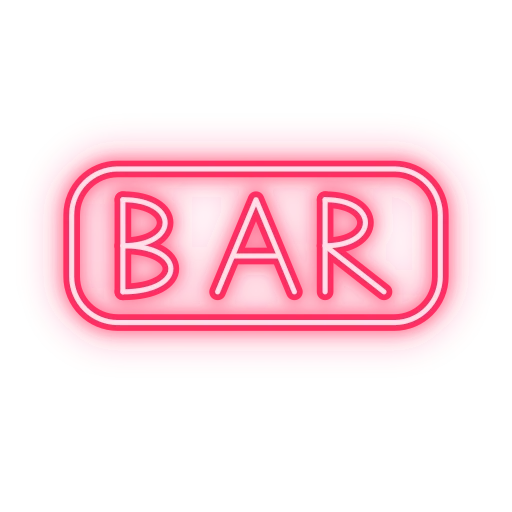
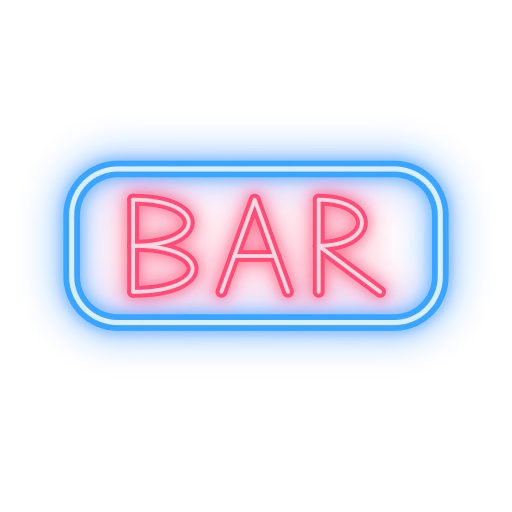
minor: improved some symbols

Changed region(s): [[0.0625, 0.25, 0.9375, 0.6875]]

diff --git a/src/components/SlotMachine.vue b/src/components/SlotMachine.vue
@@ -54,5 +54,11 @@ const spin = () => {
         >
             {{ (slotMachine?.score.score ?? 0).toString().padStart(4, "0") }}
         </span>
+        <span
+            v-if="(slotMachine?.lastWin ?? 0) > 0"
+            class="monoton-regular reel-icon flex h-full items-center justify-center border-2 border-blue-400 bg-transparent px-4 py-3 text-8xl font-bold text-blue-400 shadow-[0_0_10px_rgba(96,165,250,0.6),0_0_20px_rgba(96,165,250,0.4),inset_0_0_10px_rgba(96,165,250,0.3)] [text-shadow:0_0_5px_rgba(96,165,250,0.8),0_0_10px_rgba(96,165,250,0.8),0_0_20px_rgba(96,165,250,1)]"
+        >
+            +{{ slotMachine?.lastWin ?? 0 }}
+        </span>
     </div>
 </template>

diff --git a/src/logic/classes/SlotMachine.ts b/src/logic/classes/SlotMachine.ts
@@ -18,6 +18,7 @@ export default class SlotMachine {
     score = new Score();
     isSpinning = false;
     result: string[][] = [];
+    lastWin = 0; // points awarded by the most recent spin
 
     private reels: Reel[] = [];
     private evaluator = new WinEvaluator();
@@ -47,6 +48,7 @@ export default class SlotMachine {
         if (this.isSpinning) return;
         this.isSpinning = true;
         this.result = [];
+        this.lastWin = 0;
 
         try {
             await ReelAudio.unlock();
@@ -66,6 +68,7 @@ export default class SlotMachine {
             for (const win of this.evaluator.evaluate(grid)) {
                 console.log(win.description);
                 this.score.addScore(win.points);
+                this.lastWin += win.points;
             }
         } finally {
             // Always re-enable the button, even if a spin throws.

diff --git a/src/logic/classes/ReelAudio.ts b/src/logic/classes/ReelAudio.ts
@@ -14,7 +14,7 @@ export default class ReelAudio {
 
     constructor() {
         this.synth = new Tone.MonoSynth({
-            oscillator: { type: "square" },
+            oscillator: { type: "sine" },
             volume: -15,
         }).toDestination();
     }